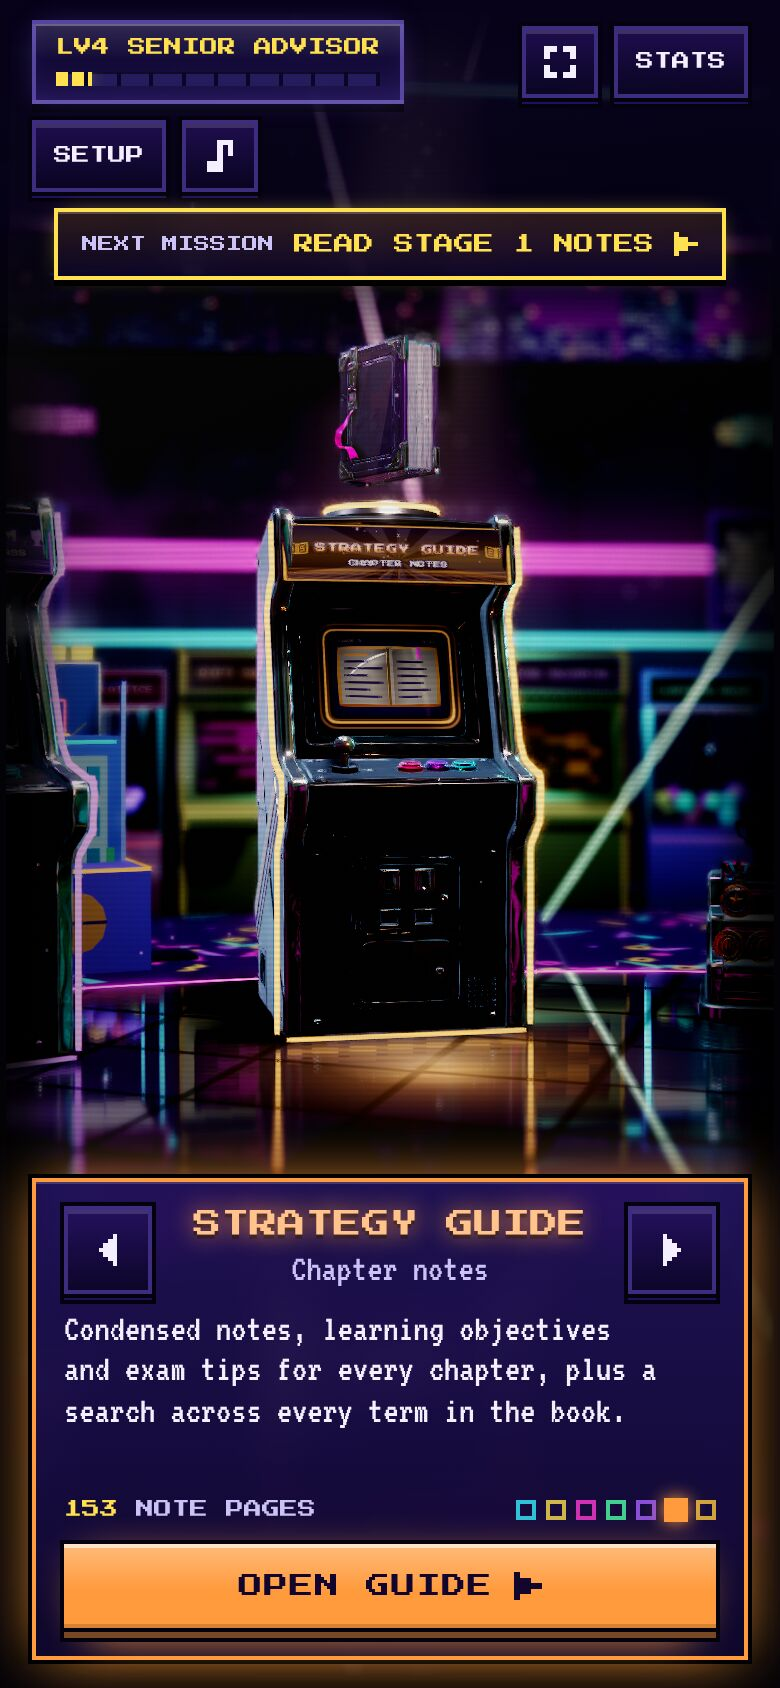
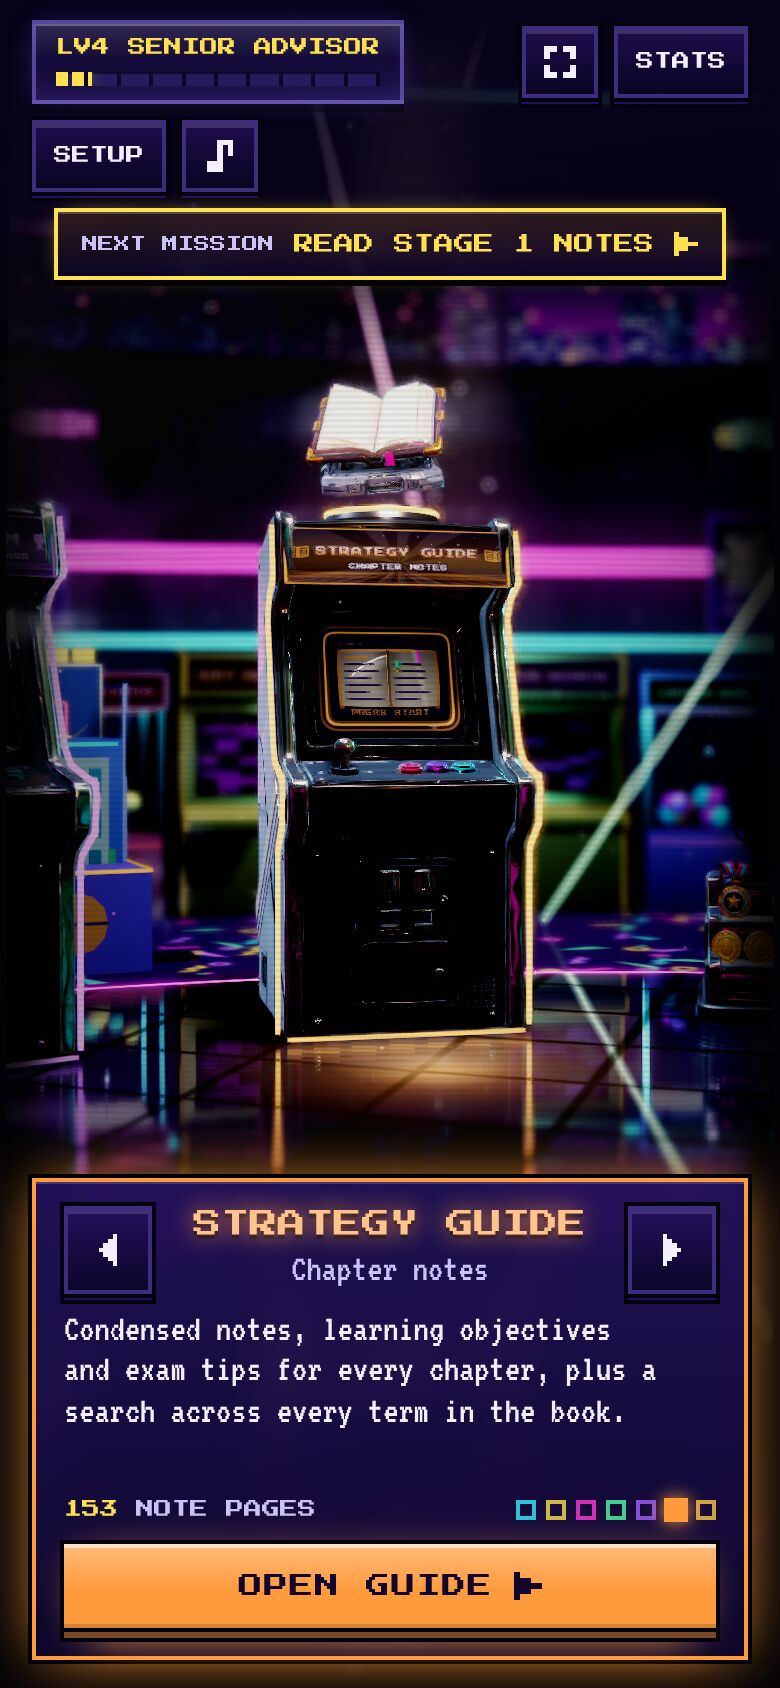
Fix round: RANK UP! plate seated over the tiles; captures made again (hall, menus, Memory Bank, Final Exam, Strategy Guide); README and status (regression IDENTICAL both ways, sequence 13/13)
Claude-Session: https://claude.ai/code/session_01SXN4PWw2h7NprrScNwTTGU

diff --git a/arcade/src/style.css b/arcade/src/style.css
@@ -1799,7 +1799,7 @@ canvas.gen { image-rendering: auto !important; filter: none !important; }
 /* the label over the vault's 3D window stands on its own dark plate (served) */
 .assets-on .vault-window > span { background: rgba(14, 8, 2, 0.9); padding: 5px 8px 4px; box-shadow: 0 0 0 2px #000; left: 8px; top: 7px; }
 /* a banner on its own dark plate, inside the screen's edges (RANK UP! after a reward moment: it must not cross the score) */
-.banner.plated { left: 16px; right: 16px; top: 34%; padding: 14px 12px 12px; background: rgba(6, 2, 22, 0.92); border: 2px solid var(--c, var(--yellow)); box-shadow: 0 0 22px -6px var(--c, var(--yellow)), 0 4px 0 #000; font-size: clamp(20px, 6.4vw, 40px); }
+.banner.plated { left: 16px; right: 16px; top: 52%; padding: 14px 12px 12px; background: rgba(6, 2, 22, 0.92); border: 2px solid var(--c, var(--yellow)); box-shadow: 0 0 22px -6px var(--c, var(--yellow)), 0 4px 0 #000; font-size: clamp(20px, 6.4vw, 40px); }
 .banner.plated small { font-size: 9px; line-height: 1.5; margin-top: 8px; white-space: normal; overflow-wrap: anywhere; }
 .banner.plated { animation: banner-plate 1.4s ease-out forwards; } /* (it never grows past the screen's edges) */
 @keyframes banner-plate { 0% { opacity: 0; transform: scale(1.06); } 12% { opacity: 1; transform: none; } 85% { opacity: 1; } 100% { opacity: 0; } }

diff --git a/arcade/tools/scenarios/menus.js b/arcade/tools/scenarios/menus.js
@@ -68,8 +68,8 @@ module.exports = async (cap) => {
     A.show.results({ game: "boss", sel: A.makeSelection("4"), run: { correct: 6, answered: 6, bestStreak: 6, missed: [], xp0: -230, start: {} }, stars: 3, score: 18450,
       title: "STAGE CLEAR", headline: "18,450", sub: "The Fine Print falls", color: "#ff3ad4", won: ["boss6", "streak20"] }, 0);
   });
-  await strip("08-results-reward", 10, 14, { thumb: 230, cols: 10 });
-  await cap.fast(60);
+  await strip("08-results-reward", 12, 16, { thumb: 200, cols: 12 }); // (and RANK UP! once the last reward has landed)
+  await cap.fast(150);
   await still("09-results");
   // ---- stats: rank, tiles, the trophies
   await cap.eval(() => window.__arcade.show.stats());

diff --git a/arcade/docs/combat-pass/menus/README.md b/arcade/docs/combat-pass/menus/README.md
@@ -4,24 +4,24 @@ Made by `tools/scenarios/menus.js` (`node tools/capture.js tools/scenarios/menus
 --dpr 2`, served, every asset loaded; `PART=title,hub,menus,memory,exam,guide` makes only those parts) on a 390 x 844
 phone screen at twice its density. Stills are the whole screen; strips are frames side by side, left to right. The
 player is set some way in (nine trophies, five bosses beaten, a best exam of 72%) so earned and unearned things both
-show.
+show. Everything but the title was made again after the review's fix round.
 
 | File | What it shows |
 |---|---|
 | `01-title-first-2s.jpg` | The title's first two seconds (one frame every 0.4 s): the drawn sky the page starts with, and the generated dusk fading in over it as it arrives. Nothing waits for it. |
 | `02-title.jpg` | The title: the painted dusk (storm cloud rimmed in magenta) behind the city, its sun set behind the striped one, the haze in its colour, the wet road mirroring it. |
 | `03-hub-wide.jpg` | The arcade hall from the far side of its floor: two of the six cabinets with their toppers, the neon rings, the row of machines along the wall, the polished floor. |
-| `04-hub-1-blaster.jpg` ... `04-hub-6-guide.jpg` | Each cabinet in focus: the one cabinet model in the game's neon, its live attract screen, its name on the marquee, its topper turning on a lit turntable (starfighter, war rig, Proctor, deck of cards, lectern, great book), its lamp, pool and rim light. |
-| `05-hub-trophy-stand.jpg` | The seventh stop: the trophy stand, the sixteen trophies as cups, medals and coins, lit when earned and dark until then. |
+| `04-hub-1-blaster.jpg` ... `04-hub-6-guide.jpg` | Each cabinet in focus: the one cabinet model in the game's neon, its live attract screen, its name on the marquee, its topper on a lit turntable with a key light of its own (the starfighter and the war rig turning, the Proctor; the white study cards, the lectern's open book and the open tome swaying to face the lens), its lamp, pool and rim light. Beside Memory Bank, the round vault door (`prop-vault`). |
+| `05-hub-trophy-stand.jpg` | The seventh stop: the trophy stand, mirroring the second hall (`hub-hall-b`, which also takes over the floor's sheen toward it); the sixteen trophies as cups, medals and coins, bright and lit when earned, dark silhouettes until then. |
 | `06-hub-move-and-choose.jpg` | Moving from Boss Rush to Memory Bank (one frame every 0.15 s): the dolly between cabinets, the new one powering up. |
-| `06b-hub-chosen.jpg` | Choosing it (PLAY): the walk up to its screen, its topper spinning up and its neon flaring (the coin drops and the announcer calls the game). |
-| `07-chapter-select.jpg` | Boss Rush's chapter select: each boss's bust from the portrait strip, stars drawn from the star model. |
-| `08-results-reward.jpg` | A results screen's reward moment (one frame every 0.15 s): the stars, then coins landing in a pile, a medal for a run without a miss, a cup for a new best, and the two trophies won, one by one, each with its sound. |
-| `09-results.jpg` | The same results screen at rest: the boss's bust over the headline, the tiles with their icons. |
+| `06b-hub-chosen.jpg` | Choosing it (PLAY): the walk up to its screen, its topper swinging hard and its neon flaring (the coin drops and the announcer calls the game). |
+| `07-chapter-select.jpg` | Boss Rush's chapter select: each boss's 3D bust (the same as on the results), gold stars drawn from the star model. |
+| `08-results-reward.jpg` | A results screen's reward moment (one frame every 0.27 s): the stars, then coins landing in a pile, a medal for a run without a miss, a cup for a new best and the two trophies won, one by one, each with its sound; then RANK UP! on its own plate over the tiles. |
+| `09-results.jpg` | The same results screen at rest: the boss's bust over the headline, the tiles with one icon style (model icons at 24 px, or none). |
 | `10-stats.jpg` | Stats: the trophies drawn as the stand's cups, medals and coins (dim until earned). |
-| `11-memory.jpg` | Memory Bank: the vault door's gold mirroring the generated gold vault, the deck the cards are dealt from at its foot. |
-| `12-memory-banked.jpg` | A card banked (one frame every 0.15 s): the generated coin flies up past the card and into the slot. |
-| `13-exam.jpg` | The Final Exam: the examiner, its armour mirroring the moonlit night, at its lectern (the book and the bell at the foot of the frame). |
-| `14-exam-passed.jpg` | The exam passed (one frame every 0.7 s): the examiner's fall, the camera drawing back into the moonlit hall. |
-| `15-guide.jpg` | The Strategy Guide: the archive with the great book on show over the reading desk, lit by its lamp and the archive's light. |
+| `11-memory.jpg` | Memory Bank: the vault door's gold mirroring the generated gold vault, the deck of white study cards at its foot, THE VAULT on its plate. |
+| `12-memory-banked.jpg` | A card banked (one frame every 0.15 s): the banked card goes up into the vault's slot, the next is dealt off the deck into its place, the generated coin flies to the slot. |
+| `13-exam.jpg` | The Final Exam: the examiner, its armour mirroring the moonlit night and its chest's hollow smooth gunmetal, at its lectern (the open book and the bell at the foot of the frame). |
+| `14-exam-passed.jpg` | The exam passed (one frame every 0.7 s): the lectern sinks away, the examiner falls, the camera draws back into the hall with the full moon and the night in its left arch; the burst stays short of white. |
+| `15-guide.jpg` | The Strategy Guide: the archive with the great book open on its stand under the rose window, its pages to the lens, lit by its own lamp and the archive's light. |
 | `16-guide-open-chapter.jpg` | A chapter opened (one frame every 0.13 s): the archive's view turns from the nave to the shelves behind the chapter's banner. |

diff --git a/arcade/docs/combat-pass/menus/STATUS.md b/arcade/docs/combat-pass/menus/STATUS.md
@@ -24,17 +24,30 @@ Branch: the worktree of `claude/quirky-ride-9frte0` (5d42917, then the lead's tr
 - F: the archive panorama as light and backdrop, the tome on show over the desk with its own lamp.
 - Captures: 22 JPGs in this folder, listed in `README.md` (`tools/scenarios/menus.js`, `PART=` for one part).
 
-## Tests (final build)
+## The review's fix round (2026-11-17)
+- RANK UP! comes after the last reward has landed, on its own plate over the tiles, inside the screen.
+- Memory Bank: the banked card is seen going up into the vault and the next dealt off the deck (pictures over the
+  page, moved by the scene's clock; the rule's timer is unchanged); THE VAULT stands on a plate.
+- The lead's remade deck, lectern and tome: retuned as toppers (swaying to face the lens, a key light each); the deck
+  at the vault's foot; the lectern leaned toward the lens in the exam hall; the open tome lit under the rose window.
+- Chapter select uses the 3D busts (the strips are asked for first; a bust drawn before its strip arrived is redrawn);
+  earned stars are gold; tiles show model icons at 24 px or none; the results' emblem is a model icon.
+- Earned trophies bright and lit, locked ones dark; the stand mirrors `hub-hall-b`, whose sheen takes over the floor
+  toward it; `prop-vault` stands beside Memory Bank (the boxy cleaning robot and the printer are not built there).
+- Final Exam: the chest's hollow is smooth gunmetal (a material change in code, served only; both hit-stops are
+  untouched); the moon low in the left arch, the sky darkened to night; the pass burst's star and flash capped.
+
+## Tests (after the fix round)
 Regression from disk IDENTICAL; over HTTP with every asset loaded IDENTICAL; sequence 13 of 13, no errors.
 
 ## Still weak
 - The Proctor model is not in the Final Exam: its present examiner has two frame-exact hit-stops, so a swap was not
   safe in this phase. The moon shows only in the ending (the examiner fills the band during the questions).
 - The archive panorama barely shows round the closed nave; the guide's chapter-opening strip is subtle.
-- Memory Bank's coin is small in flight; `prop-vault` is not used (the drawn door moves as the deck is banked).
-- The hall's set is about 5.1 MB of models and sky (each file under 0.8 MB), over the ~4 MB guide; its textures
+- Memory Bank's coin is small in flight.
+- The hall's set is now about 6 MB of models and skies (each file under 0.8 MB), over the ~4 MB guide; its textures
   stay in GPU memory while games run (the hall is kept).
 - Nobody has heard the sound; the reduced-effects paths were not captured.
 
 ## Asked of the lead
-- A three-tier trophy stand: delivered as `prop-stand` (b5ae3d6), merged.
+- A three-tier trophy stand: delivered as `prop-stand` (b5ae3d6), merged. Remade deck, podium and tome (1048b77), merged.
